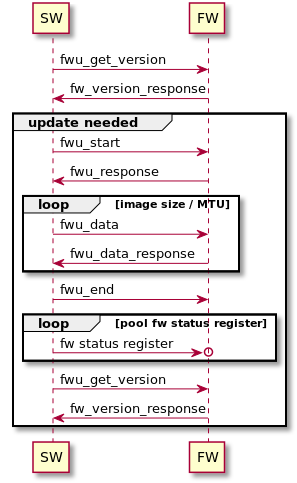
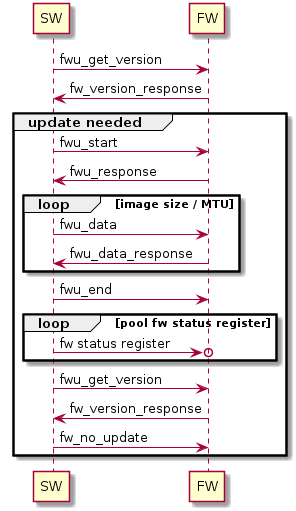
igsc: doc: add no_update flow to the documenation
Add no_update flow to the documenation.

Changed region(s): [[0.0304, 0.0, 1.0, 0.9938]]

diff --git a/doc/introduction.rst b/doc/introduction.rst
@@ -95,8 +95,7 @@ library enables some of those checks to be done prior to writing to device.
    while firmware perform additional step and reboots. When the `competion` bit
    is set and `fw udate state` is idle the process has completed.
 6. The library queries for firmware version again and verifies that the new
-7. The library (on windows) sends `fw no update` message. On Linux this step
-   is performed by the Linux kernel driver.
+7. The library sends `fw no update` message.
 
 1.5.2 OPROM Update
 ^^^^^^^^^^^^^^^^^^^
